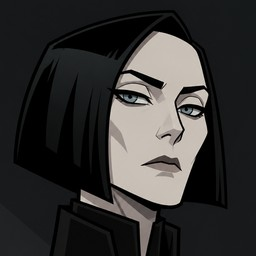
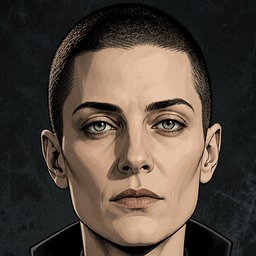
Redraw Wick faces so they actually look like the actors
John stays. Winston, Charon, Bowery King, Caine, Adjudicator,
Marquis, and Koji get new likenesses. Cache bump to v28.

diff --git a/index.html b/index.html
@@ -21,7 +21,7 @@
     <link rel="icon" type="image/png" sizes="32x32" href="./icons/favicon-32.png" />
     <link rel="apple-touch-icon" href="./icons/apple-touch-icon.png" />
     <title>BOFA Protocol</title>
-    <link rel="stylesheet" href="./styles.css?v=27" />
+    <link rel="stylesheet" href="./styles.css?v=28" />
   </head>
   <body>
     <div id="app">
@@ -247,8 +247,8 @@
     </div>
 
     <div id="toast" class="toast" hidden></div>
-    <script src="./jokes.js?v=27" defer></script>
-    <script src="./jokes-wick.js?v=27" defer></script>
-    <script src="./app.js?v=27" defer></script>
+    <script src="./jokes.js?v=28" defer></script>
+    <script src="./jokes-wick.js?v=28" defer></script>
+    <script src="./app.js?v=28" defer></script>
   </body>
 </html>

diff --git a/app.js b/app.js
@@ -1180,7 +1180,7 @@
 
   if ("serviceWorker" in navigator) {
     let hadController = Boolean(navigator.serviceWorker.controller);
-    navigator.serviceWorker.register("./sw.js?v=27", { updateViaCache: "none" });
+    navigator.serviceWorker.register("./sw.js?v=28", { updateViaCache: "none" });
     navigator.serviceWorker.addEventListener("controllerchange", () => {
       if (!hadController) {
         hadController = true;

diff --git a/sw.js b/sw.js
@@ -1,4 +1,4 @@
-const CACHE = "amrap-v27";
+const CACHE = "amrap-v28";
 const ASSETS = [
   "./",
   "./index.html",
